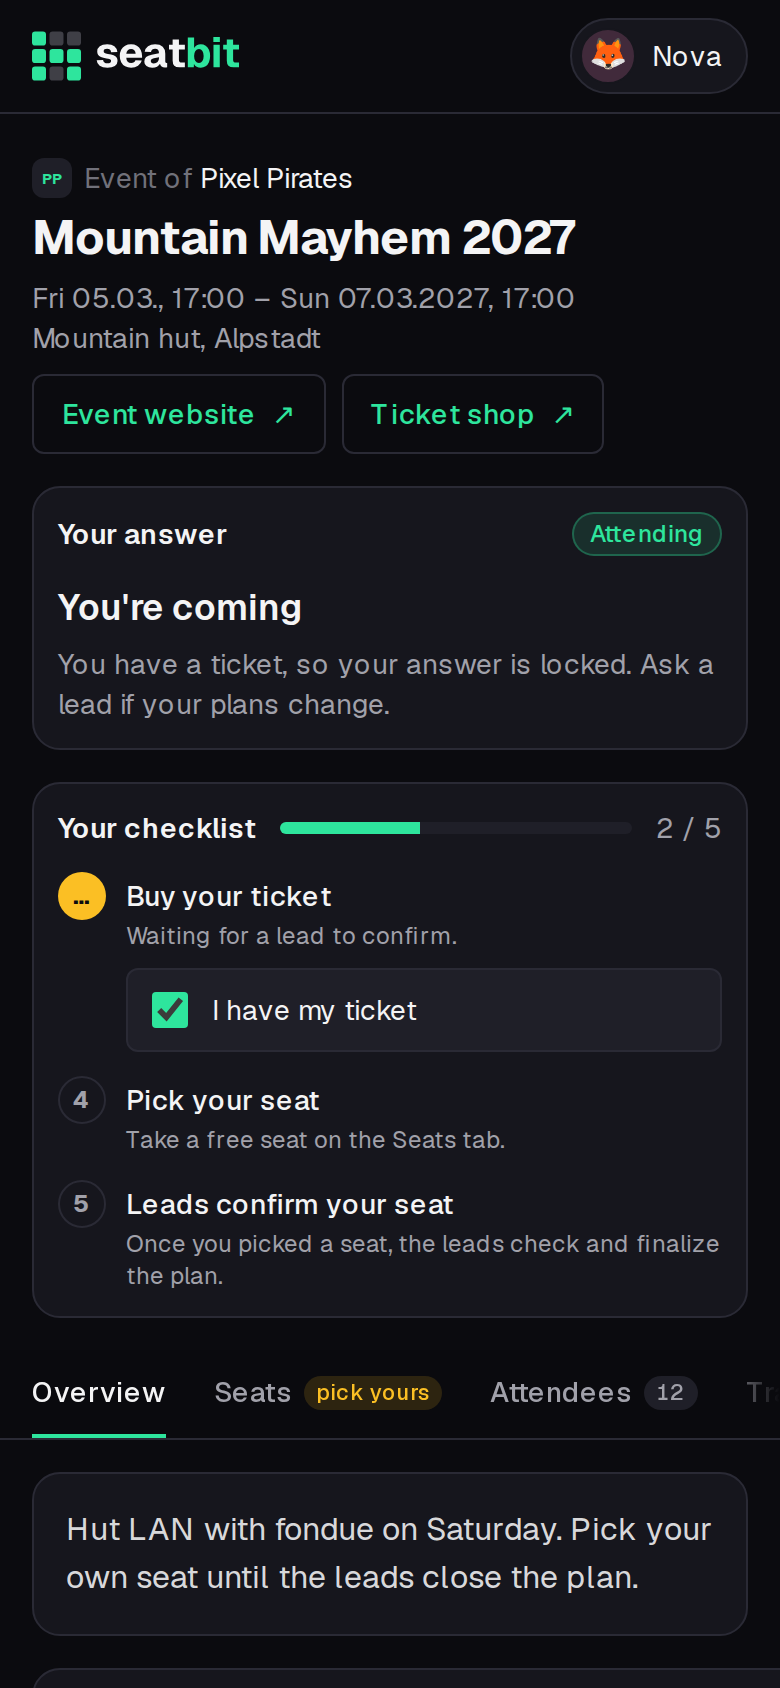
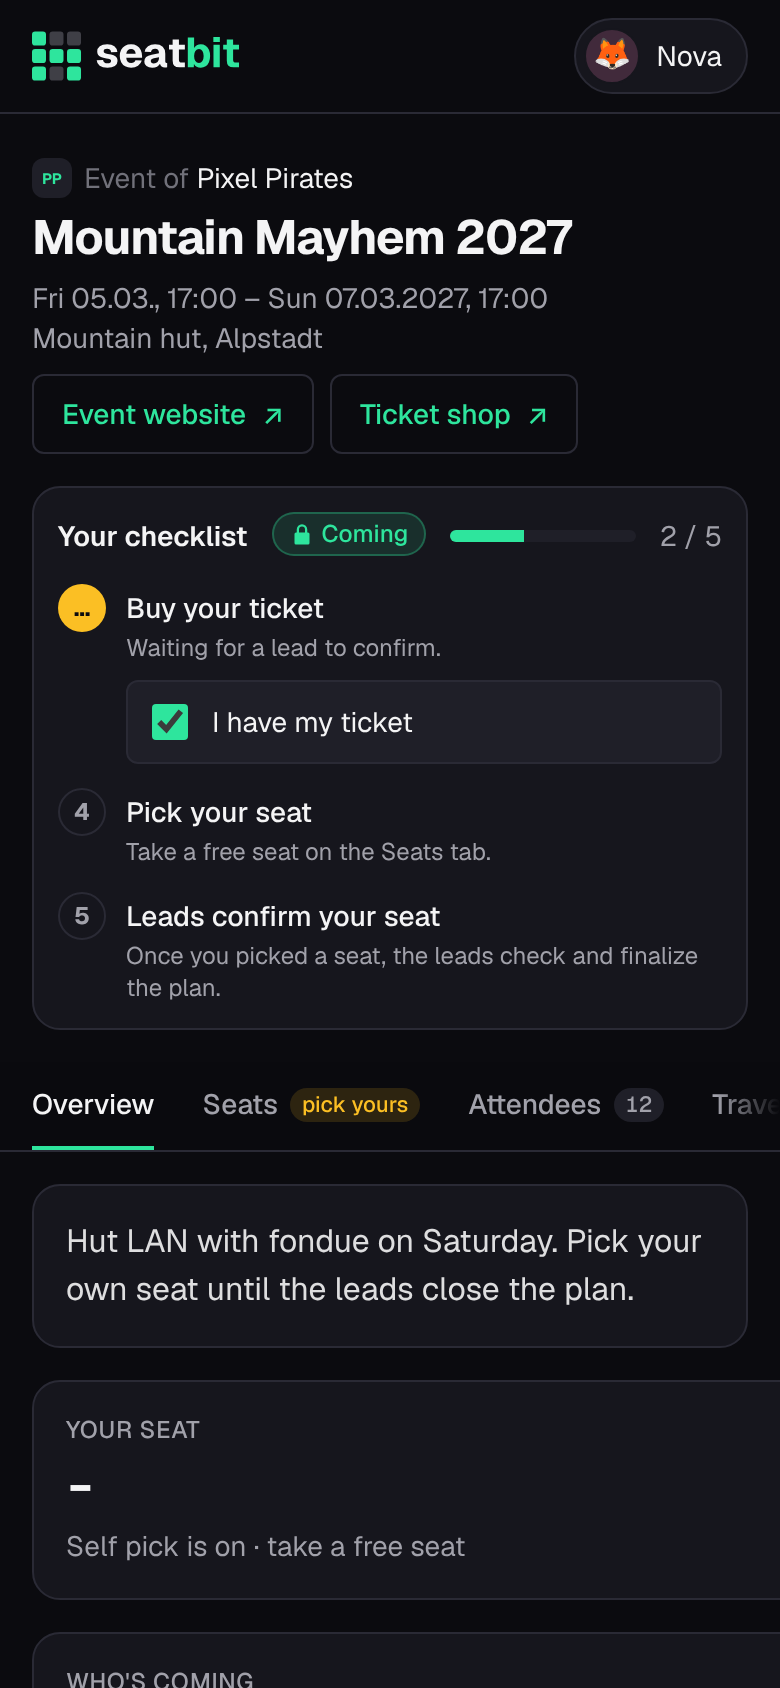
Show a locked answer as a compact badge on the event page
Once a member has a ticket the answer can't change, so the big answer card
becomes a lock badge next to the checklist title. The card stays for the
waitlist place and comes back on the event days for the check-in.

Claude-Session: https://claude.ai/code/session_01Mn3pyporRCBRDo5cTBG918

diff --git a/src/app/lans/[id]/page.tsx b/src/app/lans/[id]/page.tsx
@@ -10,7 +10,7 @@ import { getLanAccounts } from "@/lib/lan-accounts";
 import { SeatMap } from "@/components/seat-map";
 import { Avatar } from "@/components/avatar";
 import { getAvatars, type AvatarData } from "@/lib/avatars";
-import { Card, Columns, Page, Pill, StatusBadge, Verified } from "@/components/ui";
+import { Card, Columns, LockedAnswerBadge, Page, Pill, StatusBadge, Verified } from "@/components/ui";
 import { fmtDate, fmtTime, relative } from "@/lib/format";
 import { ATTENDANCE_LOCKED_MSG, attendanceLocked, getDisplayNames, getLan, getNames, pickNick, seatView, signupClosed, waitlistPositions } from "@/lib/lans";
 import { canViewLan, isLanManager, requireUser } from "@/lib/session";
@@ -285,13 +285,18 @@ export default async function LanPage({ params, searchParams }: PageProps<"/lans
     </Card>
   );
 
+  const showChecklist = !!my && my.status !== "declined" && !l.cancelledAt && !l.interestCheck;
+  // A locked answer can't be changed here, so it shrinks to a badge in the checklist and frees the space.
+  // The full card stays for the waitlist place and the check-in on the day.
+  const compactAnswer = showChecklist && locked && (my.status === "going" || my.status === "maybe") && !atTheVenue;
+
   return (
     <Page>
       <EventHeader lan={l} clan={lanClan} mode="view" canManage={isAdmin} tab={tab} />
 
       {/* Your answer and your checklist sit above the tabs, so they show on every tab. */}
-      <div className={`grid items-stretch gap-4 ${my && my.status !== "declined" && !l.cancelledAt && !l.interestCheck ? "lg:grid-cols-[20rem_minmax(0,1fr)] 2xl:grid-cols-[22rem_minmax(0,1fr)]" : ""}`}>
-        {l.interestCheck && !l.cancelledAt ? (
+      <div className={`grid items-stretch gap-4 ${showChecklist && !compactAnswer ? "lg:grid-cols-[20rem_minmax(0,1fr)] 2xl:grid-cols-[22rem_minmax(0,1fr)]" : ""}`}>
+        {compactAnswer ? null : l.interestCheck && !l.cancelledAt ? (
         <section aria-label="Would you come?" className="rounded-card border border-line bg-surface p-3 sm:p-4">
           <h2 className="mb-1 text-sm font-semibold text-fg">Would you come?</h2>
           <p className="mb-3 text-sm text-muted">Not binding: it helps the leads decide. You can sign up properly later.</p>
@@ -336,9 +341,10 @@ export default async function LanPage({ params, searchParams }: PageProps<"/lans
           )}
         </section>
         )}
-        {my && my.status !== "declined" && !l.cancelledAt && !l.interestCheck && (
+        {showChecklist && (
           <LanChecklist
             variant="strip"
+            answer={compactAnswer && <LockedAnswerBadge status={my.status} note={ATTENDANCE_LOCKED_MSG} />}
             lanId={l.id}
             steps={steps}
             ticketBought={my.ticketBought}

diff --git a/src/components/lan-checklist.tsx b/src/components/lan-checklist.tsx
@@ -1,5 +1,6 @@
 "use client";
 import { progress, type ChecklistStep } from "@/lib/checklist";
+import type { ReactNode } from "react";
 import { TicketConfirm } from "./ticket-confirm";
 
 export function LanChecklist({
@@ -8,6 +9,7 @@ export function LanChecklist({
   ticketBought,
   canReportTicket,
   variant = "list",
+  answer,
 }: {
   lanId: string;
   steps: ChecklistStep[];
@@ -15,9 +17,11 @@ export function LanChecklist({
   canReportTicket: boolean;
   /** list: stacked (sidebar). strip: compact row above the event tabs, shown on every tab. */
   variant?: "list" | "strip";
+  /** strip only: a compact answer badge next to the title, used once the answer is locked. */
+  answer?: ReactNode;
 }) {
   const { done, total } = progress(steps);
-  if (variant === "strip") return <ChecklistStrip lanId={lanId} steps={steps} done={done} total={total} ticketBought={ticketBought} canReportTicket={canReportTicket} />;
+  if (variant === "strip") return <ChecklistStrip lanId={lanId} steps={steps} done={done} total={total} ticketBought={ticketBought} canReportTicket={canReportTicket} answer={answer} />;
   return (
     <div className="space-y-4">
       <div className="h-1.5 overflow-hidden rounded-full bg-raised">
@@ -79,9 +83,11 @@ function ChecklistStrip({
   total,
   ticketBought,
   canReportTicket,
+  answer,
 }: {
   lanId: string;
   steps: ChecklistStep[];
+  answer?: ReactNode;
   done: number;
   total: number;
   ticketBought: boolean;
@@ -93,6 +99,7 @@ function ChecklistStrip({
     <section aria-label="Your checklist" className="rounded-card border border-line bg-surface p-3 sm:p-4">
       <div className="mb-3 flex items-center gap-3">
         <h2 className="text-sm font-semibold text-fg">Your checklist</h2>
+        {answer}
         <div className="h-1.5 flex-1 overflow-hidden rounded-full bg-raised">
           <div className="h-full bg-bit transition-all" style={{ width: `${total ? (done / total) * 100 : 0}%` }} />
         </div>

diff --git a/src/components/ui.tsx b/src/components/ui.tsx
@@ -74,6 +74,29 @@ export function StatusBadge({
   );
 }
 
+/**
+ * A locked answer (the member has a ticket) as a small badge instead of the big answer card.
+ * Tapping it shows who can still change it; <details> keeps it working without client JS.
+ */
+export function LockedAnswerBadge({ status, note }: { status: AttendanceStatus; note: string }) {
+  const label = { going: "Coming", maybe: "Unsure", waitlist: "Waitlist", declined: "Not coming" }[status];
+  return (
+    <details className="relative shrink-0">
+      <summary
+        className={`inline-flex cursor-pointer list-none items-center gap-1 whitespace-nowrap rounded-full border px-2 py-0.5 text-xs font-medium [&::-webkit-details-marker]:hidden ${statusStyles[status]}`}
+        title={note}
+      >
+        <svg viewBox="0 0 16 16" width={12} height={12} aria-hidden className="shrink-0">
+          <path fill="currentColor" d="M4.5 7V5a3.5 3.5 0 0 1 7 0v2h.5A1 1 0 0 1 13 8v6a1 1 0 0 1-1 1H4a1 1 0 0 1-1-1V8a1 1 0 0 1 1-1zm1.5 0h4V5a2 2 0 0 0-4 0z" />
+        </svg>
+        {label}
+        <span className="sr-only">, locked</span>
+      </summary>
+      <p className="absolute left-0 top-full z-20 mt-1.5 w-64 rounded-md border border-line bg-raised p-2.5 text-xs text-fg shadow-lg">{note}</p>
+    </details>
+  );
+}
+
 export function Pill({ children, tone = "zinc" }: { children: ReactNode; tone?: "zinc" | "red" | "emerald" | "amber" }) {
   const tones = {
     zinc: "bg-raised text-fg/90",

diff --git a/docs/features/attendance.md b/docs/features/attendance.md
@@ -25,7 +25,7 @@ The event page shows your answer and checklist at the top, then the tabs **Overv
 
 **Coming**, **Unsure** or **Not coming**, before the *answer by* date. Also possible with the buttons on the clan's Discord announcement or with `/coming`, `/unsure`, `/not-coming` and `/lans` in Discord. `/status` and `/ticket` work there too (see [Discord commands](discord.md#commands)).
 
-- Once you have a ticket, your answer is **locked**. Leads can still change it.
+- Once you have a ticket, your answer is **locked**. Leads can still change it. The answer card then shrinks to a small badge with a lock next to *Your checklist* (tap it for the hint); it comes back on the event days for the check-in.
 - During an [interest check](events.md#interest-check) the answers are *I'd come / Maybe / Not this time* instead.
 
 ### Waitlist
